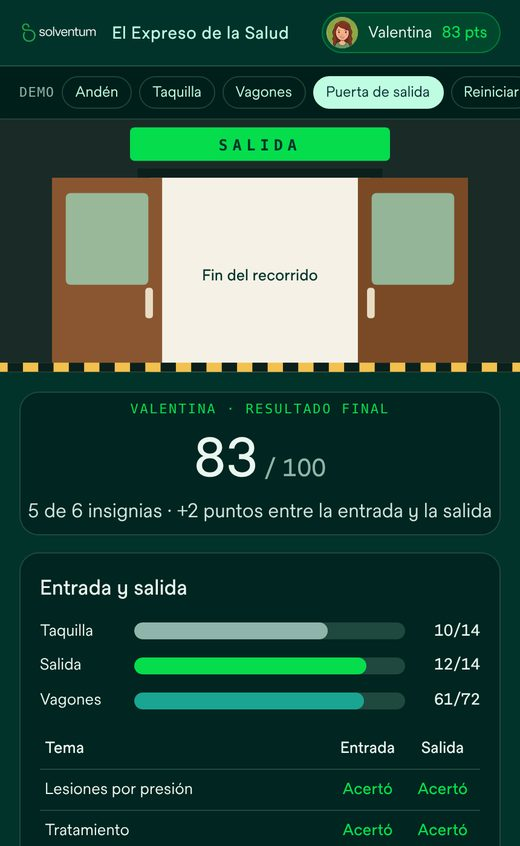
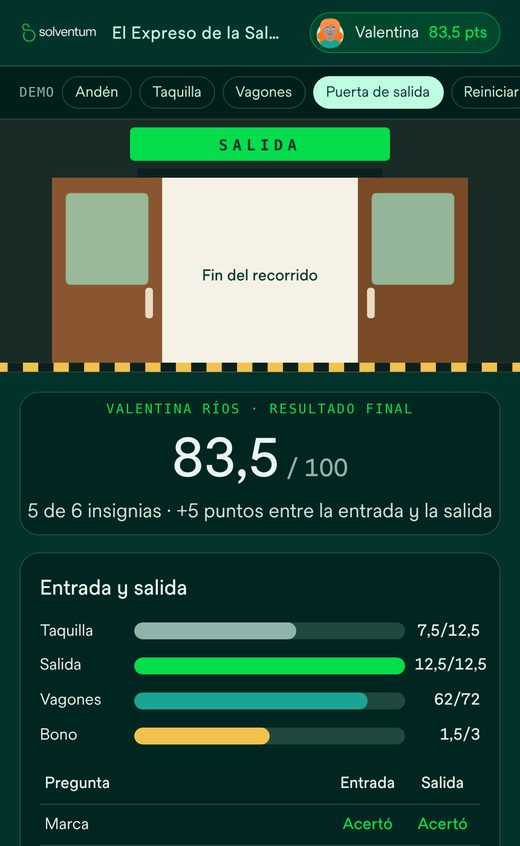
Solventum · El Expreso de la Salud: total con IVA ($11.305.000) como valor principal, pantallas del demo actualizadas, estilos de impresión para PDF
Claude-Session: https://claude.ai/code/session_01RZ8bJwtTLBRBzUj5ZUhmo6

diff --git a/propuestas/solventum/el-expreso-de-la-salud/propuesta/index.html b/propuestas/solventum/el-expreso-de-la-salud/propuesta/index.html
@@ -141,7 +141,7 @@ section{padding-block:clamp(52px,7vw,88px);scroll-margin-top:52px}
 .tag{align-self:flex-start;font-family:var(--display);font-size:.74rem;font-weight:700;letter-spacing:.14em;text-transform:uppercase;color:var(--on-dark);background:var(--magenta);padding:6px 12px;border-radius:999px}
 .ind{margin-top:auto!important;padding-top:12px;border-top:1px solid var(--line);font-size:.9rem!important}
 .ind b{display:block;font-family:var(--display);font-size:.72rem;letter-spacing:.12em;text-transform:uppercase;color:var(--rust);margin-bottom:4px}
-@media (max-width:900px){.vals.three,.roi{grid-template-columns:1fr}}
+@media screen and (max-width:900px){.vals.three,.roi{grid-template-columns:1fr}}
 .price .per{margin-top:16px;font-size:.95rem;opacity:.9}
 .price .per-list{list-style:none;padding:0;margin-top:8px;display:grid;gap:6px}
 .price .per-list li{display:flex;gap:10px;font-size:.95rem}
@@ -154,13 +154,25 @@ section{padding-block:clamp(52px,7vw,88px);scroll-margin-top:52px}
 .noinc h3{font-size:.78rem;letter-spacing:.14em;text-transform:uppercase;color:var(--rust);margin-bottom:8px}
 .noinc .list{grid-template-columns:repeat(3,1fr);column-gap:24px}
 .noinc .list li{border-bottom:0}
-@media (max-width:640px){.noinc .list{grid-template-columns:1fr}}
+@media screen and (max-width:640px){.noinc .list{grid-template-columns:1fr}}
 .cond{margin-top:clamp(32px,5vw,48px)}
 .cond-grid{list-style:none;padding:0;margin-top:14px;display:grid;grid-template-columns:repeat(2,1fr);gap:16px}
 .cond-grid li{background:var(--surface);border:1px solid var(--line);border-left:4px solid var(--magenta);border-radius:12px;padding:20px 22px;min-width:0}
 .cond-grid h3{font-size:1.02rem;font-weight:700}
 .cond-grid p{color:var(--muted);font-size:.94rem;margin-top:6px}
-@media (max-width:640px){.cond-grid{grid-template-columns:1fr}}
+@media screen and (max-width:640px){.cond-grid{grid-template-columns:1fr}}
+.paytotal{margin-top:10px;padding-top:12px;border-top:1px solid var(--line);font-size:.95rem}
+@media print{
+  @page{size:1120px 1584px;margin:40px 0}
+  html,body{-webkit-print-color-adjust:exact;print-color-adjust:exact}
+  nav.toc,.actions{display:none!important}
+  .card,.car,.steps li,.flow li,.cond-grid li,.vals li,.price,.lead-card,.signs,.phones figure,.sm-clientes li,.sm-testimonios li,.sec-head,.invest,.boxes,.roi,.two{break-inside:avoid}
+  .sec-head{break-after:avoid}
+  #inversion,#resumen{break-before:page}
+  .sm-clientes,.sm-testi,#equipo,.note{break-inside:avoid}
+  .phones{break-after:avoid}
+  section{padding-block:44px}
+}
 /* Mediadora */
 .lead-card{display:grid;grid-template-columns:auto 1fr;gap:28px;align-items:center;background:var(--olive);color:var(--on-dark);border-radius:14px;padding:clamp(24px,4vw,44px)}
 .lead-card > *{min-width:0}
@@ -194,7 +206,7 @@ section{padding-block:clamp(52px,7vw,88px);scroll-margin-top:52px}
 footer{border-top:1px solid var(--line);padding-block:28px;font-size:.85rem;color:var(--muted)}
 footer .wrap{display:flex;justify-content:space-between;gap:12px;flex-wrap:wrap}
 
-@media (max-width:900px){
+@media screen and (max-width:900px){
   .hero-grid,.why,.invest{grid-template-columns:1fr}
   .flow{grid-template-columns:1fr;border-top:0;border-left:3px solid var(--olive)}
   .flow li{padding:0 0 22px 24px}
@@ -203,7 +215,7 @@ footer .wrap{display:flex;justify-content:space-between;gap:12px;flex-wrap:wrap}
   .steps{grid-template-columns:1fr 1fr}
   .phones{grid-template-columns:repeat(3,1fr)}
 }
-@media (max-width:640px){
+@media screen and (max-width:640px){
   .facts{grid-template-columns:1fr 1fr}
   .fact:nth-child(3){padding-left:0;border-left:0}
   .fact:nth-child(n+3){border-top:1px solid var(--line)}
@@ -327,9 +339,9 @@ footer .wrap{display:flex;justify-content:space-between;gap:12px;flex-wrap:wrap}
         <ul class="signs">
           <li><b>Participantes</b><span>47 · 6 grupos de color</span></li>
           <li><b>Vagones</b><span>6 temas clínicos</span></li>
-          <li><b>Prueba de entrada</b><span>5 preguntas</span></li>
+          <li><b>Prueba de entrada</b><span>5 preguntas · 12,5 pts</span></li>
           <li><b>Retos por vagón</b><span>3 · 12 pts</span></li>
-          <li><b>Prueba de salida</b><span>5 preguntas</span></li>
+          <li><b>Prueba de salida</b><span>5 preguntas · 12,5 pts</span></li>
           <li><b>Pieza física</b><span>Rompecabezas 35 × 25 cm</span></li>
           <li><b>Funciona en</b><span>Celular, sin descargar apps</span></li>
         </ul>
@@ -346,10 +358,10 @@ footer .wrap{display:flex;justify-content:space-between;gap:12px;flex-wrap:wrap}
       </div>
       <ol class="flow">
         <li><span class="t">Llegada</span><h3>Andén de bienvenida</h3><p>Cada participante arma su avatar, escoge un nombre único de pasajero y su grupo.</p></li>
-        <li><span class="t">Antes</span><h3>Taquilla</h3><p>Prueba de entrada de 5 preguntas. El resultado imprime su tiquete digital.</p></li>
+        <li><span class="t">Antes</span><h3>Taquilla</h3><p>Prueba de entrada de 5 preguntas, por 12,5 puntos. El resultado imprime su tiquete digital.</p></li>
         <li><span class="t">El juego</span><h3>Seis vagones</h3><p>Un caso, una práctica técnica y una insignia por vagón.</p></li>
         <li><span class="t">Después</span><h3>Puerta de salida</h3><p>Las mismas 5 preguntas de la entrada, en otro orden, para medir lo aprendido.</p></li>
-        <li><span class="t">Cierre</span><h3>Resultados y premiación</h3><p>Cada participante ve su puntaje, sus insignias y su avance.</p></li>
+        <li><span class="t">Cierre</span><h3>Resultados y premiación</h3><p>Puntaje sobre 100, insignias y avance entre la entrada y la salida.</p></li>
       </ol>
       <div class="phones">
         <figure><img src="img/anden.jpg" alt="Andén de bienvenida con el constructor de avatar" loading="lazy"><figcaption>Andén</figcaption></figure>
@@ -381,7 +393,7 @@ footer .wrap{display:flex;justify-content:space-between;gap:12px;flex-wrap:wrap}
       <ol class="steps">
         <li><span class="pts">4 pts</span><span class="t">Paso 1</span><h3>Pregunta individual</h3><p>Se responde sin consultar. Es obligatoria para ganar la insignia.</p></li>
         <li><span class="pts">4 pts</span><span class="t">Paso 2</span><h3>Pregunta grupal</h3><p>El equipo construye la respuesta y suma el trabajo en conjunto.</p></li>
-        <li><span class="pts">4 pts</span><span class="t">Paso 3 · máximo 3 minutos</span><h3>Rompecabezas</h3><p>Pieza física en acrílico de 35 × 25 cm con palabras clave del producto.</p></li>
+        <li><span class="pts">4 pts</span><span class="t">Paso 3 · máximo 3 minutos</span><h3>Rompecabezas</h3><p>Pieza física en acrílico de 35 × 25 cm con palabras clave del producto. Armarla con rapidez suma 0,5 puntos de bono.</p></li>
         <li><span class="pts">8 / 12</span><span class="t">Paso 4</span><h3>Insignia</h3><p>Solo con 8 de 12 puntos y la pregunta individual correcta. Nadie la recibe sin mérito propio.</p></li>
       </ol>
     </div>
@@ -397,10 +409,10 @@ footer .wrap{display:flex;justify-content:space-between;gap:12px;flex-wrap:wrap}
         <div class="card">
           <span class="k">6</span>
           <h3>Resultado individual</h3>
-          <p>Al terminar, cada participante ve en su celular su puntaje, las insignias que ganó en los 6 vagones y su avance entre la prueba de entrada y la de salida.</p>
+          <p>Al terminar, cada participante ve en su celular su puntaje sobre 100, las insignias que ganó en los 6 vagones y su avance entre la prueba de entrada y la de salida.</p>
           <div class="bars" role="img" aria-label="Ejemplo ilustrativo del avance entre la entrada y la salida">
-            <div><span>Entrada</span><i style="--w:40%"></i><em>2/5</em></div>
-            <div class="after"><span>Salida</span><i style="--w:100%"></i><em>5/5</em></div>
+            <div><span>Entrada</span><i style="--w:60%"></i><em>7,5/12,5</em></div>
+            <div class="after"><span>Salida</span><i style="--w:100%"></i><em>12,5/12,5</em></div>
             <div><small>Ejemplo ilustrativo</small></div>
           </div>
         </div>
@@ -484,8 +496,8 @@ footer .wrap{display:flex;justify-content:space-between;gap:12px;flex-wrap:wrap}
 .sm-clientes ul{list-style:none;padding:0;margin:0;display:grid;grid-template-columns:repeat(5,1fr);gap:12px}
 .sm-clientes li{background:#fff;border:1px solid #E4E1D4;border-radius:10px;height:120px;display:flex;align-items:center;justify-content:center;padding:18px 22px;min-width:0}
 .sm-clientes img{max-width:100%;max-height:70px;width:auto;height:auto;object-fit:contain;display:block}
-@media (max-width:860px){.sm-clientes ul{grid-template-columns:repeat(3,1fr)}}
-@media (max-width:560px){.sm-clientes ul{grid-template-columns:1fr 1fr}.sm-clientes li{height:96px;padding:14px}.sm-clientes img{max-height:54px}}
+@media screen and (max-width:860px){.sm-clientes ul{grid-template-columns:repeat(3,1fr)}}
+@media screen and (max-width:560px){.sm-clientes ul{grid-template-columns:1fr 1fr}.sm-clientes li{height:96px;padding:14px}.sm-clientes img{max-height:54px}}
 @media (prefers-color-scheme: dark){:root:not([data-theme="light"]) .sm-clientes{color:#EEEBDD}:root:not([data-theme="light"]) .sm-clientes .sm-lead{color:#B5B29C}:root:not([data-theme="light"]) .sm-clientes .sm-eb{color:#E58A5A}:root:not([data-theme="light"]) .sm-clientes li{background:#202214;border-color:#34361F}:root:not([data-theme="light"]) .sm-clientes img{filter:brightness(2.2)}}
 :root[data-theme="dark"] .sm-clientes{color:#EEEBDD}:root[data-theme="dark"] .sm-clientes .sm-lead{color:#B5B29C}:root[data-theme="dark"] .sm-clientes .sm-eb{color:#E58A5A}:root[data-theme="dark"] .sm-clientes li{background:#202214;border-color:#34361F}:root[data-theme="dark"] .sm-clientes img{filter:brightness(2.2)}
 .sm-clientes.sm-dark{color:#F2EEE3}.sm-clientes.sm-dark .sm-lead{color:#B9B6A8}.sm-clientes.sm-dark .sm-eb{color:#F2A03D}
@@ -523,11 +535,11 @@ footer .wrap{display:flex;justify-content:space-between;gap:12px;flex-wrap:wrap}
 .sm-testi .who{margin-top:auto;font-family:"Montserrat",system-ui,sans-serif;font-size:.86rem;line-height:1.4}
 .sm-testi .who b{display:block;font-weight:700}
 .sm-testi .who span{color:#6A6C55}
-@media (max-width:860px){.sm-testi ul{grid-template-columns:1fr 1fr}}
-@media (max-width:560px){.sm-testi ul{grid-template-columns:1fr}}
+@media screen and (max-width:860px){.sm-testi ul{grid-template-columns:1fr 1fr}}
+@media screen and (max-width:560px){.sm-testi ul{grid-template-columns:1fr}}
 @media (prefers-color-scheme: dark){:root:not([data-theme="light"]) .sm-testi{color:#EEEBDD}:root:not([data-theme="light"]) .sm-testi .sm-eb{color:#E58A5A}:root:not([data-theme="light"]) .sm-testi li{background:#202214;border-color:#34361F}:root:not([data-theme="light"]) .sm-testi .who span{color:#B5B29C}}
 :root[data-theme="dark"] .sm-testi{color:#EEEBDD}:root[data-theme="dark"] .sm-testi .sm-eb{color:#E58A5A}:root[data-theme="dark"] .sm-testi li{background:#202214;border-color:#34361F}:root[data-theme="dark"] .sm-testi .who span{color:#B5B29C}
-.sm-testi.sm-4 ul{grid-template-columns:1fr 1fr}@media (max-width:560px){.sm-testi.sm-4 ul{grid-template-columns:1fr}}
+.sm-testi.sm-4 ul{grid-template-columns:1fr 1fr}@media screen and (max-width:560px){.sm-testi.sm-4 ul{grid-template-columns:1fr}}
 .sm-testi.sm-dark{color:#F2EEE3}.sm-testi.sm-dark .sm-eb{color:#F2A03D}.sm-testi.sm-dark li{background:#14170F;border-color:#2C3020}.sm-testi.sm-dark .who span{color:#B9B6A8}
 </style>
 <section class="sm-testi sm-4" id="testimonios" aria-label="Testimonios">
@@ -548,13 +560,13 @@ footer .wrap{display:flex;justify-content:space-between;gap:12px;flex-wrap:wrap}
       </div>
       <div class="invest">
         <div class="price">
-          <span class="lbl">Valor integral · El Expreso de la Salud</span>
-          <span class="big">$9.500.000 <small style="white-space:nowrap">+ IVA</small></span>
+          <span class="lbl">Valor total · IVA incluido</span>
+          <span class="big">$11.305.000 <small style="white-space:nowrap">IVA incluido</small></span>
           <p class="per">Valor integral de la herramienta, con 2 cambios de preguntas incluidos y uso sin límite de veces.</p>
           <dl>
             <div><dt>Valor antes de IVA</dt><dd>$9.500.000</dd></div>
             <div><dt>IVA (19 %)</dt><dd>$1.805.000</dd></div>
-            <div class="sum"><dt>Total con IVA</dt><dd>$11.305.000</dd></div>
+            <div class="sum"><dt>Total a pagar, IVA incluido</dt><dd>$11.305.000</dd></div>
           </dl>
           <div class="unit">
             <p>Cada participante vive la experiencia completa:</p>
@@ -583,9 +595,10 @@ footer .wrap{display:flex;justify-content:space-between;gap:12px;flex-wrap:wrap}
         <div class="card">
           <h3>Forma de pago</h3>
           <ul class="list">
-            <li><span><b>Anticipo del 30 % · $2.850.000</b> (calculado antes de IVA) al aprobar la propuesta</span></li>
-            <li><span><b>Saldo · $6.650.000 + el 100 % del IVA ($1.805.000)</b> en la factura final, a la entrega, con pago a 30 días</span></li>
+            <li><span><b>Anticipo del 30 % · $2.850.000</b> (calculado sobre el valor antes de IVA, sin IVA) al aprobar la propuesta</span></li>
+            <li><span><b>Saldo · $8.455.000</b> ($6.650.000 + el 100 % del IVA, $1.805.000) en la factura final, a la entrega, con pago a 30 días</span></li>
           </ul>
+          <p class="paytotal">Anticipo + saldo = <b>$11.305.000</b>, IVA incluido.</p>
         </div>
         <div class="card">
           <h3>Acompañamiento durante el evento</h3>
@@ -600,7 +613,7 @@ footer .wrap{display:flex;justify-content:space-between;gap:12px;flex-wrap:wrap}
           <li><h3>Uso sin límite de veces</h3><p>La herramienta se puede usar varias veces, no solo en el evento del 27 de noviembre.</p></li>
           <li><h3>Avatares sin memoria</h3><p>Cada persona crea su avatar cada vez que entra. La herramienta no guarda el nombre ni el historial de las participantes.</p></li>
           <li><h3>2 cambios de preguntas incluidos</h3><p>El valor incluye 2 cambios de preguntas para la puerta de entrada, los 6 vagones y la puerta de salida. Los vagones conservan siempre su nombre.</p></li>
-          <li><h3>Cambios adicionales · $650.000 + IVA cada uno</h3><p>Después, Solventum puede cambiar preguntas y casos las veces que necesite. Cada cambio cubre las 5 preguntas de entrada, las 5 de salida y las preguntas de los 6 vagones, y Solventum las entrega previamente en un documento de Word.</p></li>
+          <li><h3>Cambios adicionales · $773.500 IVA incluido cada uno</h3><p>Después, Solventum puede cambiar preguntas y casos las veces que necesite ($650.000 + IVA de $123.500 por cambio). Cada cambio cubre las 5 preguntas de entrada, las 5 de salida y las preguntas de los 6 vagones, y Solventum las entrega previamente en un documento de Word.</p></li>
           <li><h3>Informe del evento en 3 días hábiles</h3><p>Simoné entrega el informe en PDF dentro de los 3 días hábiles (de lunes a viernes) siguientes al evento, una vez Solventum confirme que la actividad quedó cerrada.</p></li>
           <li><h3>Los puntos siempre se mantienen</h3><p>Los puntos son parte de la estrategia de gamificación y su conteo es permanente. Lo que se anuncia como premio no siempre tiene que ser una insignia: con cada cambio de preguntas, Simoné ajusta la tabla de equivalencia de los puntos.</p></li>
         </ul>
